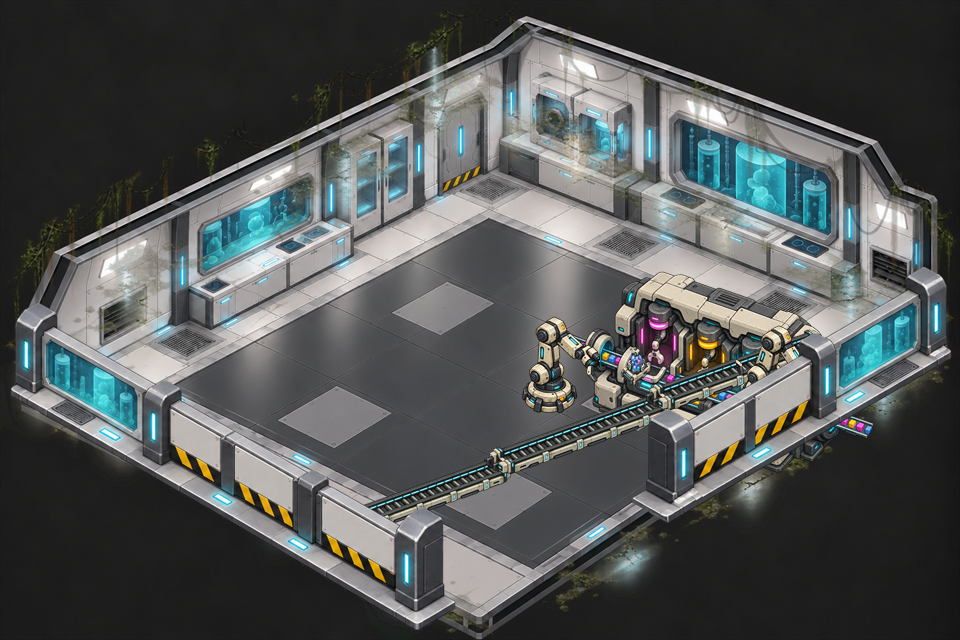
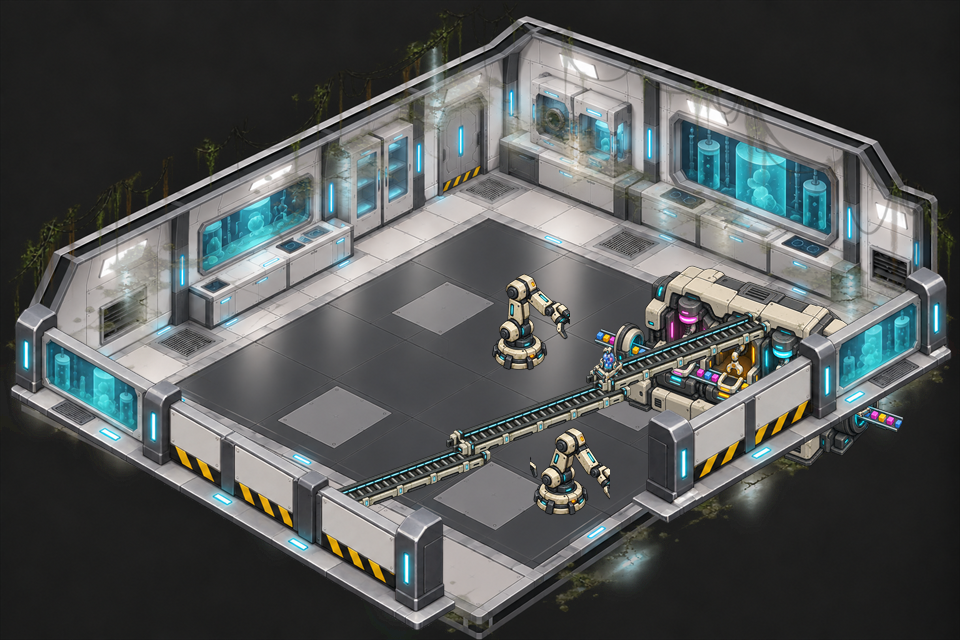
fix: separate ribosome line objects in ZEP map

Changed region(s): [[0.3438, 0.4062, 0.875, 0.8125], [0.7812, 0.625, 0.9375, 0.75]]

diff --git a/apps/zep-studio/assets/genesis/cell-factory/weathered-biolab-app/main.js b/apps/zep-studio/assets/genesis/cell-factory/weathered-biolab-app/main.js
@@ -28,15 +28,15 @@ const robotArmSprite = App.loadSpritesheet(
 // 본체는 오른쪽 작업 구역에 두고 남서쪽을 향하도록 좌우 반전했습니다.
 // 대각선 레일의 끝점이 맞닿도록 남서쪽에서 북동쪽으로 이어 붙입니다.
 const railPositions = [
-  { x: 10, y: 14, key: 'weathered-biolab-rail-1' },
-  { x: 15, y: 12, key: 'weathered-biolab-rail-2' },
-  { x: 20, y: 10, key: 'weathered-biolab-rail-3' }
+  { x: 10, y: 15, key: 'weathered-biolab-rail-1' },
+  { x: 15, y: 13, key: 'weathered-biolab-rail-2' },
+  { x: 20, y: 11, key: 'weathered-biolab-rail-3' }
 ];
 
 const cargoRoute = [
-  { x: 20, y: 10, label: 'A 자리 · 아미노산 반입' },
-  { x: 15, y: 12, label: 'P 자리 · 펩타이드 결합' },
-  { x: 10, y: 14, label: '완성 단백질 배출' }
+  { x: 20, y: 11, label: 'A 자리 · 아미노산 반입' },
+  { x: 15, y: 13, label: 'P 자리 · 펩타이드 결합' },
+  { x: 10, y: 15, label: '완성 단백질 배출' }
 ];
 
 let initialized = false;
@@ -45,17 +45,17 @@ let routeIndex = 0;
 let routeDirection = 1;
 
 function placeRibosomeRoom() {
-  Map.putObjectWithKey(20, 8, factorySprite, {
+  Map.putObjectWithKey(25, 10, factorySprite, {
     key: FACTORY_KEY,
     overlap: true
   });
   Map.playObjectAnimationWithKey(FACTORY_KEY, 'work', -1);
 
-  Map.putObjectWithKey(17, 9, robotArmSprite, {
+  Map.putObjectWithKey(19, 9, robotArmSprite, {
     key: ARM_LEFT_KEY,
     overlap: true
   });
-  Map.putObjectWithKey(23, 9, robotArmSprite, {
+  Map.putObjectWithKey(21, 13, robotArmSprite, {
     key: ARM_RIGHT_KEY,
     overlap: true
   });

diff --git a/apps/zep-studio/assets/genesis/cell-factory/weathered-biolab-app/INSTALL.md b/apps/zep-studio/assets/genesis/cell-factory/weathered-biolab-app/INSTALL.md
@@ -11,10 +11,10 @@
 
 ## 맵 전용 배치
 
-- 좌우 반전된 리보솜 장비: 오른쪽 작업 구역 타일 `(20, 8)`
-- 반복 동작 기계팔 2대: 타일 `(17, 9)`, `(23, 9)`
-- 남서쪽으로 연결한 컨베이어 3개: 타일 `(10, 14)`, `(15, 12)`, `(20, 10)`
-- 아미노산 포드 경로: `(20, 10) → (15, 12) → (10, 14)`
+- 좌우 반전된 리보솜 장비: 오른쪽 작업 구역 타일 `(25, 10)`
+- 본체 왼쪽에 분리 배치한 반복 동작 기계팔 2대: 타일 `(19, 9)`, `(21, 13)`
+- 본체 왼쪽 접속부까지만 연결한 컨베이어 3개: 타일 `(10, 15)`, `(15, 13)`, `(20, 11)`
+- 아미노산 포드 경로: `(20, 11) → (15, 13) → (10, 15)`
 - 모든 오브젝트는 충돌 없이 배치되어 학생 캐릭터 이동을 막지 않습니다.
 
 다른 크기의 맵에서는 좌표가 맞지 않으므로 `main.js`의 좌표를 조정해야 합니다.
